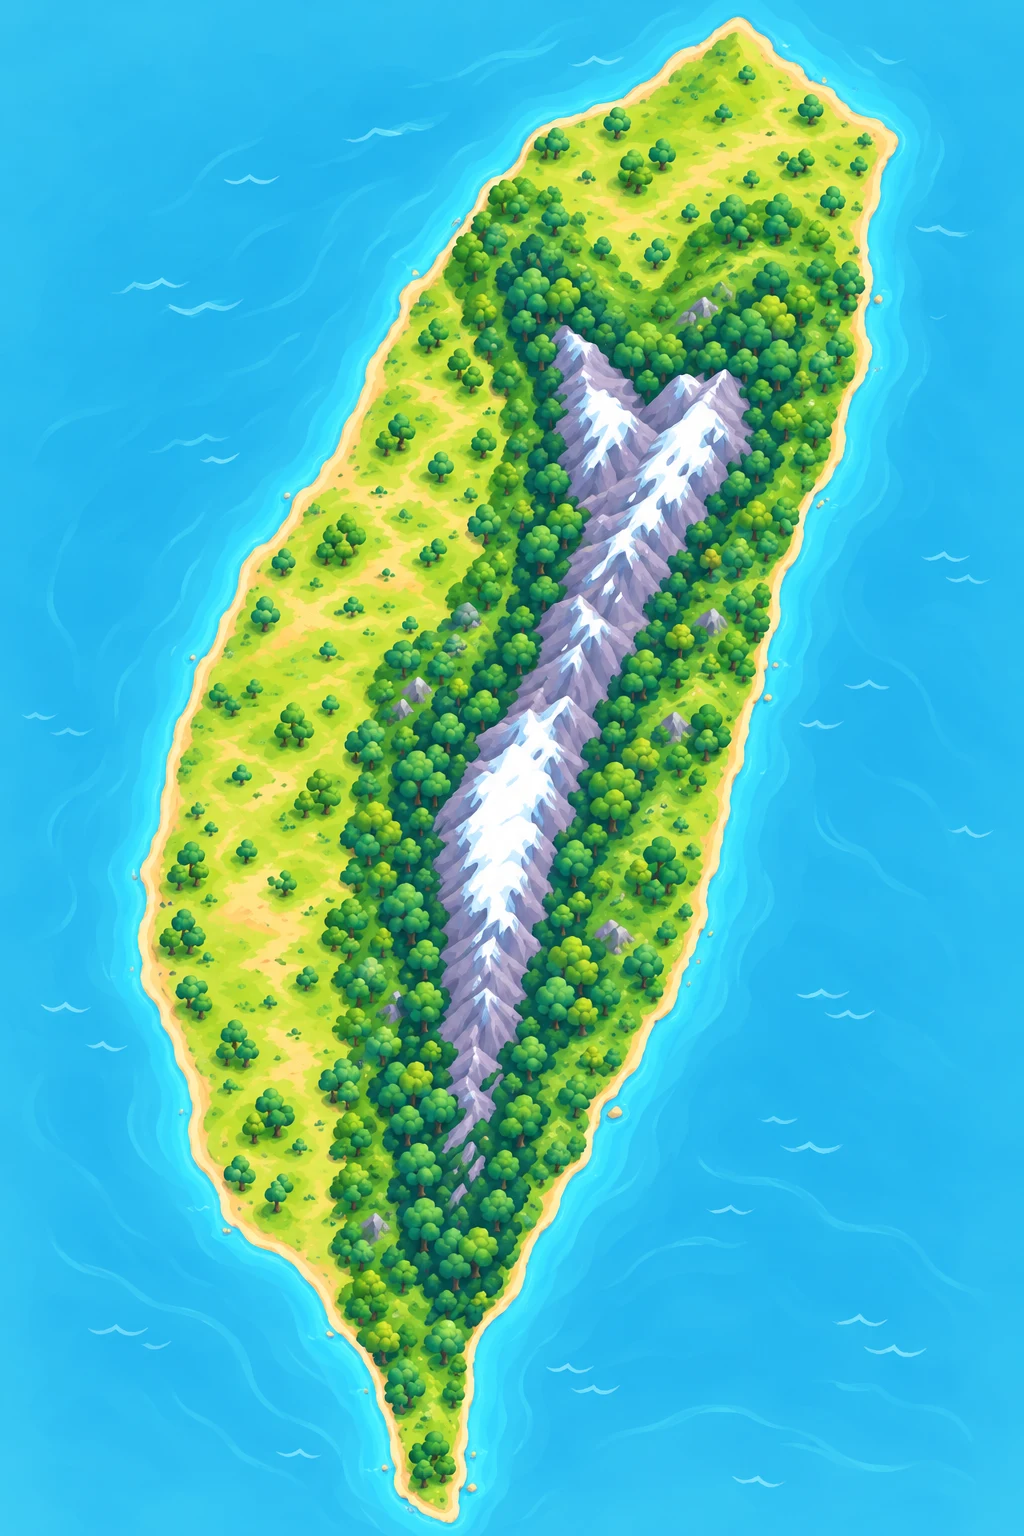
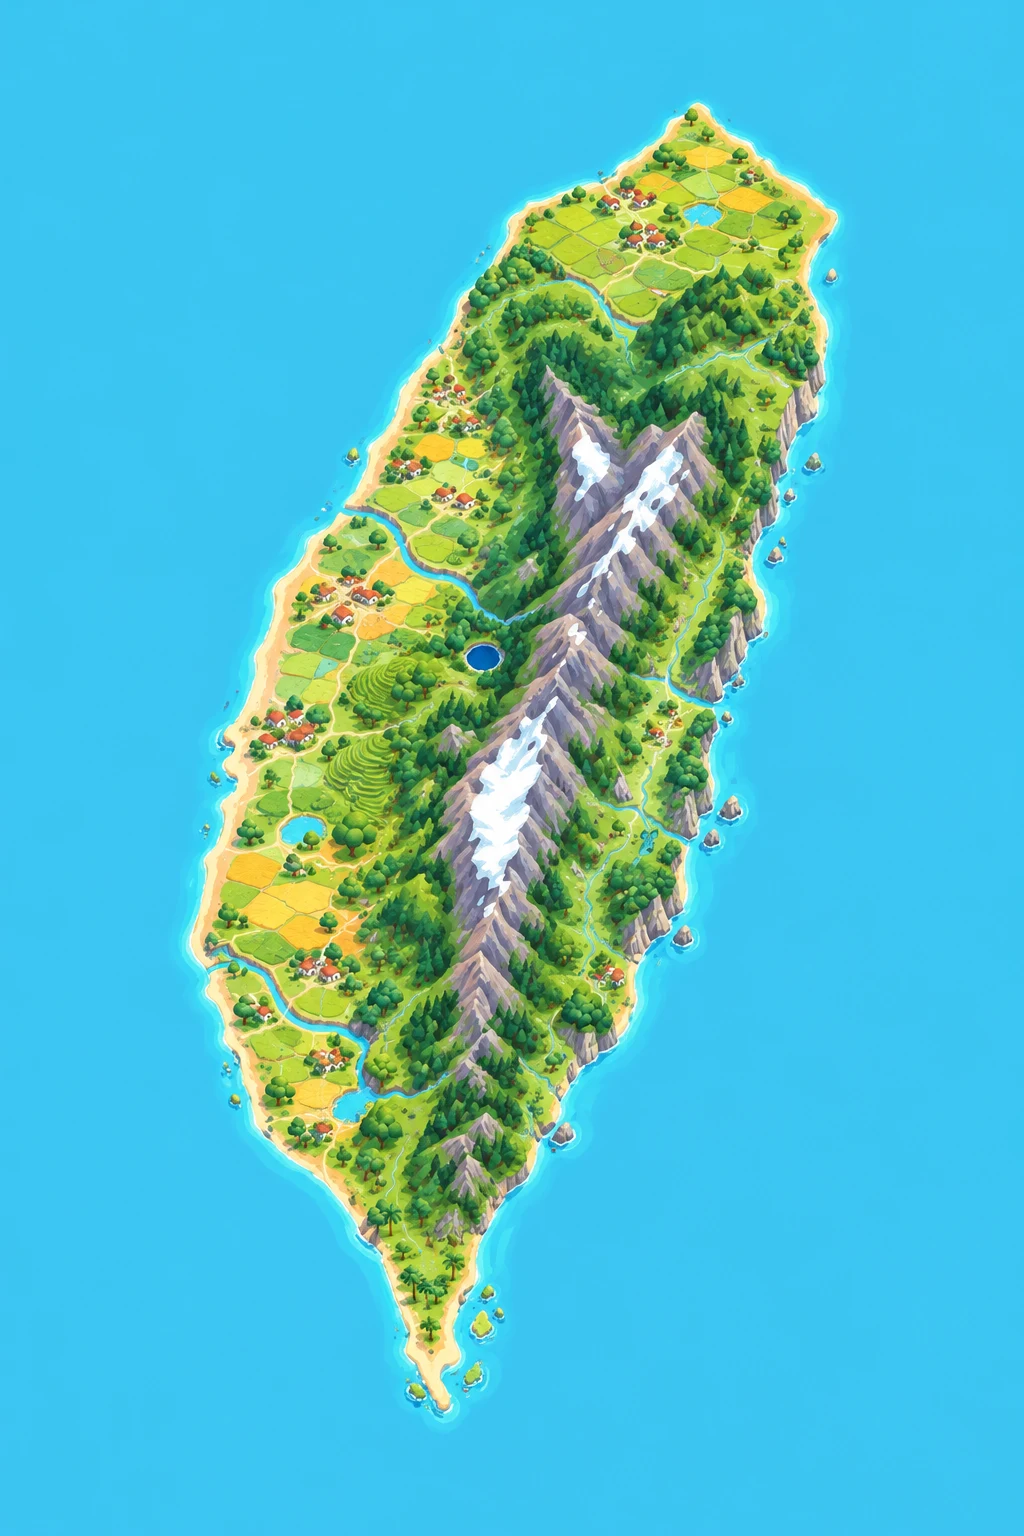
圖鑑 3D 地圖：旋轉限制、貼圖重畫、海面切邊淡出、日本地形補強
- 左右轉、上下傾斜各最多 35 度（地圖上拖曳不再捲動頁面）
- 海面貼圖四邊淡出，看不到方形的切邊
- 台灣貼圖重畫：稻田、村落、河流、日月潭、東岸斷崖、墾丁，樹木減少
- 日本：重畫北海道輪廓、富士山加大、補上奄美、屋久島、種子島、宮古、石垣、佐渡；縮小置中，轉動時不跑出畫面；貼圖重畫（富士山、琵琶湖、薰衣草田）

diff --git a/src/scenes/japanGeo.ts b/src/scenes/japanGeo.ts
@@ -2,10 +2,14 @@
 import { makeGeo } from './geo';
 import art from '../assets/scenes/map-jp.webp';
 
+// 北海道：宗谷岬 → 鄂霍次克海岸 → 知床半島 → 根室半島 → 襟裳岬 → 內浦灣 → 渡島半島（函館） → 日本海岸
 const HOKKAIDO: [number, number][] = [
-  [140.0, 41.45], [140.6, 41.75], [141.2, 41.8], [141.15, 42.3], [141.9, 42.55], [142.7, 42.15], [143.3, 41.95], [143.75, 42.6], [144.4, 42.95], [145.5, 43.15],
-  [145.8, 43.4], [145.3, 43.55], [145.3, 44.3], [144.4, 43.95], [143.4, 44.3], [142.6, 44.95], [141.95, 45.5], [141.6, 45.4], [141.75, 44.5], [141.35, 43.65],
-  [141.4, 43.25], [140.6, 43.25], [140.4, 42.9], [140.0, 42.55], [139.85, 42.0],
+  [141.94, 45.52], [142.4, 45.2], [142.95, 44.75], [143.6, 44.25], [144.3, 44.05], [144.8, 43.95], [145.15, 44.2], [145.35, 44.38], [145.2, 44.0],
+  [145.1, 43.7], [145.35, 43.55], [145.62, 43.42], [145.82, 43.38], [145.5, 43.22], [145.1, 43.1], [144.4, 42.98], [143.6, 42.6], [143.3, 42.2],
+  [143.25, 41.93], [142.9, 42.1], [142.4, 42.3], [141.9, 42.55], [141.6, 42.55], [141.0, 42.32], [140.75, 42.55], [140.45, 42.55], [140.35, 42.45],
+  [140.45, 42.2], [140.65, 42.05], [140.95, 41.95], [141.15, 41.8], [140.75, 41.75], [140.45, 41.6], [140.2, 41.4], [140.05, 41.45], [139.95, 41.8],
+  [140.05, 42.2], [139.85, 42.3], [140.2, 42.75], [140.35, 43.3], [140.9, 43.2], [141.3, 43.2], [141.4, 43.4], [141.65, 44.0], [141.75, 44.4],
+  [141.65, 45.0], [141.75, 45.35],
 ];
 const HONSHU: [number, number][] = [
   [140.35, 41.25], [140.9, 41.55], [141.45, 41.45], [141.45, 40.6], [141.65, 40.3], [142.05, 39.55], [141.85, 39.0], [141.55, 38.4], [141.0, 38.25], [140.95, 37.75],
@@ -22,12 +26,19 @@ const KYUSHU: [number, number][] = [
   [129.75, 33.4], [130.45, 33.95], [130.95, 33.95], [131.65, 33.6], [131.9, 32.9], [131.6, 32.2], [131.45, 31.4], [131.1, 31.0], [130.65, 31.0], [130.2, 31.3],
   [130.25, 31.9], [130.15, 32.5], [129.8, 32.7], [129.6, 33.1],
 ];
+// 南方小島：實際上很小，地圖上放大一點才看得到（示意）
 const OKINAWA: [number, number][] = [
-  [127.65, 26.08], [127.8, 26.2], [128.05, 26.55], [128.35, 26.85], [128.25, 26.65], [127.95, 26.45], [127.7, 26.3],
+  [127.6, 26.05], [127.85, 26.15], [128.1, 26.45], [128.4, 26.85], [128.3, 26.95], [127.95, 26.7], [127.75, 26.45], [127.6, 26.25],
 ];
+const AMAMI: [number, number][] = [[129.2, 28.15], [129.5, 28.2], [129.75, 28.5], [129.55, 28.55], [129.3, 28.4]];
+const YAKUSHIMA: [number, number][] = [[130.38, 30.28], [130.55, 30.22], [130.68, 30.35], [130.58, 30.48], [130.42, 30.45]];
+const TANEGASHIMA: [number, number][] = [[130.85, 30.35], [131.0, 30.45], [131.1, 30.75], [130.98, 30.8], [130.88, 30.55]];
+const MIYAKO: [number, number][] = [[125.15, 24.7], [125.35, 24.68], [125.45, 24.78], [125.3, 24.9], [125.15, 24.85]];
+const ISHIGAKI: [number, number][] = [[124.05, 24.32], [124.3, 24.3], [124.35, 24.5], [124.2, 24.6], [124.08, 24.48]];
 const IRIOMOTE: [number, number][] = [
-  [123.68, 24.25], [123.95, 24.24], [123.95, 24.38], [123.8, 24.43], [123.67, 24.37],
+  [123.62, 24.22], [123.95, 24.2], [124.0, 24.38], [123.82, 24.47], [123.63, 24.4],
 ];
+const SADO: [number, number][] = [[138.2, 37.85], [138.45, 37.8], [138.55, 38.1], [138.45, 38.3], [138.25, 38.15]];
 const TSUSHIMA: [number, number][] = [
   [129.2, 34.15], [129.35, 34.2], [129.5, 34.55], [129.45, 34.7], [129.3, 34.55],
 ];
@@ -35,12 +46,12 @@ const TSUSHIMA: [number, number][] = [
 export const JAPAN = makeGeo({
   id: 'jp',
   name: '日本',
-  outlines: [HOKKAIDO, HONSHU, SHIKOKU, KYUSHU, OKINAWA, IRIOMOTE, TSUSHIMA],
+  outlines: [HOKKAIDO, HONSHU, SHIKOKU, KYUSHU, OKINAWA, AMAMI, YAKUSHIMA, TANEGASHIMA, MIYAKO, ISHIGAKI, IRIOMOTE, SADO, TSUSHIMA],
   ridges: [
     // 日本阿爾卑斯
     { w: 0.35, pts: [[136.9, 36.9, 2.2], [137.6, 36.4, 3.1], [137.9, 35.8, 2.9], [138.1, 35.3, 2.0]] },
     // 富士山
-    { w: 0.18, pts: [[138.72, 35.35, 3.7], [138.74, 35.37, 3.7]] },
+    { w: 0.3, pts: [[138.72, 35.35, 3.8], [138.74, 35.37, 3.8]] },
     // 奧羽山脈
     { w: 0.3, pts: [[140.6, 37.3, 1.4], [140.8, 38.5, 1.6], [140.9, 39.7, 1.6], [140.9, 40.6, 1.4]] },
     // 中國山地、紀伊山地
@@ -49,14 +60,17 @@ export const JAPAN = makeGeo({
     // 四國山地、九州山地
     { w: 0.25, pts: [[132.8, 33.6, 1.6], [133.4, 33.8, 1.9], [134.2, 33.8, 1.6]] },
     { w: 0.25, pts: [[130.8, 33.1, 1.3], [131.1, 32.9, 1.6], [130.9, 32.2, 1.2], [130.7, 31.6, 1.0]] },
-    // 北海道的大雪山、日高山脈
-    { w: 0.35, pts: [[142.5, 44.3, 1.0], [142.85, 43.65, 2.2], [143.0, 43.0, 1.8], [142.9, 42.5, 1.4]] },
+    // 北海道的大雪山、日高山脈、知床
+    { w: 0.35, pts: [[142.5, 44.3, 1.0], [142.85, 43.65, 2.4], [143.0, 43.0, 1.9], [142.9, 42.5, 1.4]] },
+    { w: 0.12, pts: [[144.9, 43.95, 1.0], [145.2, 44.15, 1.3]] },
+    // 屋久島
+    { w: 0.12, pts: [[130.52, 30.34, 1.9], [130.53, 30.35, 1.9]] },
   ],
   ridgeLine: [[136.9, 36.9], [137.6, 36.4], [137.9, 35.8], [138.1, 35.3]],
-  lon0: 134.5,
-  lat0: 34.8,
-  k: 0.23,
+  lon0: 133.9,
+  lat0: 34.85,
+  k: 0.16,
   bounds: [122.9, 24.0, 146.2, 45.7],
   step: 0.11,
-  art: { src: art, bounds: [121.3368, 24, 147.7632, 45.7] },
+  art: { src: art, bounds: [120.6649, 23.2, 148.9351, 46.4] },
 });

diff --git a/src/scenes/RegionMap3D.tsx b/src/scenes/RegionMap3D.tsx
@@ -21,6 +21,27 @@ function setUV(g: THREE.BufferGeometry, geo: Geo, [w, s, e, n]: [number, number,
   g.setAttribute('uv', new THREE.BufferAttribute(uv, 2));
 }
 
+/** 貼圖四邊淡出（只用綠色通道當透明度），海面和外圍的海接起來看不到方形的邊。 */
+let edgeFade: THREE.CanvasTexture | null = null;
+function fadeMask() {
+  if (edgeFade) return edgeFade;
+  const N = 64;
+  const c = document.createElement('canvas');
+  c.width = c.height = N;
+  const x = c.getContext('2d')!;
+  const img = x.createImageData(N, N);
+  const ramp = (t: number) => Math.min(1, Math.max(0, t / 0.1)) ** 2;
+  for (let j = 0; j < N; j++)
+    for (let i = 0; i < N; i++) {
+      const u = (i + 0.5) / N;
+      const v = (j + 0.5) / N;
+      const a = Math.round(255 * ramp(Math.min(u, 1 - u)) * ramp(Math.min(v, 1 - v)));
+      img.data.set([a, a, a, 255], (j * N + i) * 4);
+    }
+  x.putImageData(img, 0, 0);
+  return (edgeFade = new THREE.CanvasTexture(c));
+}
+
 /** 有手繪貼圖的區域：整張貼圖鋪成海面（海浪、沙灘），地形也貼同一張，山脈的起伏保留。 */
 function PaintedLand({ geo, terrain, art }: { geo: Geo; terrain: THREE.BufferGeometry; art: NonNullable<Geo['art']> }) {
   const invalidate = useThree((s) => s.invalidate);
@@ -44,7 +65,7 @@ function PaintedLand({ geo, terrain, art }: { geo: Geo; terrain: THREE.BufferGeo
   return (
     <>
       <mesh geometry={plane} position={[0, -0.004, 0]}>
-        <meshBasicMaterial map={tex} />
+        <meshBasicMaterial map={tex} alphaMap={fadeMask()} transparent depthWrite={false} />
       </mesh>
       <mesh geometry={terrain}>
         <meshLambertMaterial map={tex} />
@@ -120,7 +141,10 @@ function useCoast(geo: Geo) {
   }, [geo]);
 }
 
-/** 左右拖曳旋轉（上下滑交給頁面捲動）；只在有變化時重畫。 */
+/** 拖曳旋轉：左右轉、上下傾斜，各最多 35 度；只在有變化時重畫。 */
+const MAX_TURN = (35 * Math.PI) / 180;
+const clampTurn = (r: number) => Math.max(-MAX_TURN, Math.min(MAX_TURN, r));
+
 function DragRotate({ target }: { target: React.RefObject<THREE.Group | null> }) {
   const { gl, invalidate } = useThree();
   useEffect(() => {
@@ -130,7 +154,9 @@ function DragRotate({ target }: { target: React.RefObject<THREE.Group | null> })
     const move = (e: PointerEvent) => {
       const g = target.current;
       if (!last || !g) return;
-      g.rotation.y += (e.clientX - last.x) * 0.008;
+      // 左右、上下各最多轉 35 度
+      g.rotation.y = clampTurn(g.rotation.y + (e.clientX - last.x) * 0.008);
+      g.rotation.x = clampTurn(g.rotation.x + (e.clientY - last.y) * 0.008);
       last = { x: e.clientX, y: e.clientY };
       invalidate();
     };

diff --git a/src/styles.css b/src/styles.css
@@ -2670,7 +2670,7 @@ label.toggle input.switch:checked::after {
   margin: 0.6rem 0;
 }
 .taiwan-map canvas {
-  touch-action: pan-y; /* 上下滑還是捲動頁面，左右拖曳才轉地圖 */
+  touch-action: none; /* 左右、上下拖曳都是轉地圖（地圖外面滑才捲動頁面） */
 }
 .taiwan-2d {
   width: 100%;

diff --git a/src/scenes/taiwanGeo.ts b/src/scenes/taiwanGeo.ts
@@ -35,5 +35,5 @@ export const TAIWAN = makeGeo({
   k: 1.45,
   bounds: [119.98, 21.88, 122.0, 25.32],
   step: 0.018,
-  art: { src: art, bounds: [119.7385, 21.88, 122.2415, 25.32] },
+  art: { src: art, bounds: [119.5266, 21.55, 122.4734, 25.6] },
 });
